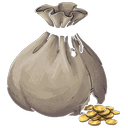
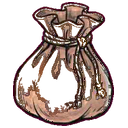
There was no stall: the images were there and the DOM was stale
Relic sheet 2 is in. The set moves to 0.55 mean luminance and 9.2%
ink, twelve of thirty-eight repainted.

It was generated yesterday. I recorded it as a fourteen-minute stall,
gave up, and handed the work back. Re-opening that conversation showed
the finished sheet, all six subjects correct, and it installed with no
re-roll.

Every one of the nine stalls was diagnosed with one line:

  [...document.querySelectorAll('img')].filter(i=>i.naturalWidth>300)

It returned 0 while the page held a 1024x687 blob, and innerText still
ended in "Creating your image" -- a DOM frozen at the moment the
request was sent. Navigating back to the same URL rendered it at once.

A screenshot is the only honest readout. That had already shown up
three times earlier in the same session, JS reporting nothing while
the screen grab showed the image, and each time I wrote it off as
lazy loading instead of reading it as the measurement it was.

So the rule is: poll by screenshot. JS may confirm what a screenshot
shows, never the reverse.

The cost was nine false stalls, about two hours of waiting, and three
entries in this log eliminating the cap, the model, the tab, the chat
and the browser. Every one of those eliminations was sound. None of
them was the fault, because the fault was in the instrument.

Claude-Session: https://claude.ai/code/session_01MHTEiJ4Rg7aeV3uPFhdWBi

diff --git a/DESIGN.md b/DESIGN.md
@@ -20676,10 +20676,41 @@ it.
 
 **A full Chrome restart does not clear it either.** Chrome had exited between attempts, so
 the ninth try ran on a freshly started browser, a fresh profile session, a fresh tab and a
-fresh chat, back on 3.6 Flash: fourteen minutes, no image. Five variables eliminated now —
-the daily cap, the model, the tab, the chat and the browser process. Nothing on the client
-side is left to change, which is itself the finding: **when this starts, stop. It is not
-worth a tenth attempt.**
+fresh chat, back on 3.6 Flash: fourteen minutes, no image. Five variables eliminated —
+the daily cap, the model, the tab, the chat and the browser process.
+
+#### There was no stall. The images were there and the DOM was stale
+
+The user said it worked for them by hand, and guessed the generations had worked for me
+too and I had failed to read the result. **They were right.** Re-opening the conversation
+that had "stalled" for fourteen minutes showed the finished sheet, all six subjects
+correct, and it installed without a re-roll.
+
+Every one of those nine stalls was diagnosed with the same JavaScript:
+
+```js
+[...document.querySelectorAll('img')].filter(i => i.naturalWidth > 300).length
+```
+
+It returned 0 while the page held a 1024x687 blob, and `document.body.innerText` still
+ended in *"Creating your image"* — a whole DOM frozen at the moment the request was sent.
+Navigating back to the same URL rendered it instantly.
+
+**A screenshot is the only honest readout.** It happened three separate times earlier in
+the same session — the JS said no image and the screen grab showed one — and each time it
+was written off as a lazy-loading quirk instead of being taken as the measurement it was.
+That is the whole failure: **a check that reads a page the browser has not painted is not
+a check, and this one had already been caught lying and was still trusted.**
+
+The rule for the next run: **poll by screenshot.** JS may confirm what a screenshot
+shows, never the reverse. And a poll that reports "still generating" for more than a few
+minutes is a claim about the page, not about the service — re-navigate to the conversation
+URL before believing it.
+
+**What it cost.** Nine "stalls", roughly two hours of waiting, three DESIGN entries
+eliminating variables that were never the cause, and a decision to hand the work back to
+the user. The daily cap, the model, the tab, the chat and the browser were all cleared
+correctly. Not one of them was the fault, because the fault was in the instrument.
 
 #### The art is in, after three attempts that failed three different ways
 

diff --git a/ART_REDO.md b/ART_REDO.md
@@ -16,7 +16,7 @@ regenerated, so a set that has been re-rolled leaves the table on its own. The
 | `enemies/`  ← **the bible** | 35 | 0.30 | 31.4% | 1.7% |
 | `iso/foe/` | 70 | 0.34 | 27.3% | 3.4% |
 | `powers/` | 30 | 0.35 | 25.2% | 2.8% |
-| `relics/` | 38 | 0.56 | 7.2% | 19.5% |
+| `relics/` | 38 | 0.55 | 9.2% | 20.3% |
 
 The bible measures **0.30 mean luminance and 31.4% ink**. A set that is far
 from both is not a matter of taste — it is a set drawn to a different brief.
@@ -72,7 +72,7 @@ Install: `godot --headless --script tools/install_sheet.gd -- powers <sheet.png>
 ## 2. The 38 relic icons — right brush, wrong value
 
 The technique is correct and the VALUE is wrong by a measured margin:
-**0.56 / 7.2% ink / 19.5% blown**. They are also all lit from the upper left
+**0.55 / 9.2% ink / 20.3% blown**. They are also all lit from the upper left
 with a bright rim, which fights the one-saturated-source rule the rooms are
 built on.
 
